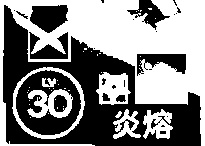
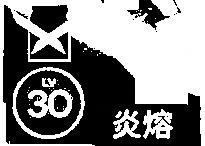
update match & template image

Changed region(s): [[0.4683, 0.3562, 0.9073, 0.7397], [0.9073, 0.6301, 0.9659, 0.6575]]

diff --git a/main.py b/main.py
@@ -67,46 +67,44 @@ def get_image_classification():
     resize = matcher.maintain_aspect_ratio_resize(default,
                                                   height=int(DEFAULT_IMAGE_HEIGHT / float(marker_ratio)))
 
-    # 修改部分：把图像二值化，让干员方框下部的黑色部分更明显，方便匹配
+    # image binary for box detection
     black_img = resize.copy()
-    THRES = 60  # 这个阈值可以调整，目前所有像素值[60,60,60]以下的像素映射为黑色，否则为白色
+    black_img_h, black_img_w = black_img.shape[:2]
+    mask = np.zeros((black_img_h + 2, black_img_w + 2), dtype=np.uint8)
+    for p in [(black_img_w - 1, 0), (black_img_w - 1, black_img_h - 1)]:
+        cv2.floodFill(black_img, mask, p, [255, 255, 255])
+    THRES = 60
     black_img[black_img <= THRES] = 0
     black_img[black_img > THRES] = 255
     black_img = cv2.cvtColor(black_img, cv2.COLOR_BGR2GRAY)
     black_img[black_img != 0] = 255
-    black_img_h, black_img_w = black_img.shape[:2]
-    mask = np.zeros((black_img_h + 2, black_img_w + 2), dtype=np.uint8)
-    for p in [(black_img_w - 1, 0), (black_img_w - 1, black_img_h - 1)]:  # 一些视频有上下边框，把它们去除
-        cv2.floodFill(black_img, mask, p, [255, 255, 255])
-    cv2.imwrite("images/black.jpg", black_img)
+    cv2.imwrite("debug/black.jpg", black_img)
 
     hits = matcher.match_template(black_img)
     # draw box for each img
-    overlay = drawBoxesOnRGB(resize, hits, showLabel=True)
-    cv2.imwrite('images/box.jpg', overlay)
+    # overlay = drawBoxesOnRGB(resize, hits, showLabel=True)
+    # cv2.imwrite('images/box.jpg', overlay)
     names = []
     for key, value in hits['BBox'].iteritems():
-        x, y, w, h = value[0], value[1] - 264, value[2], value[3] + 264  # 264 是一个要算的数，用于把方框拉倒指定长度
+        x, y, w, h = value[0], value[1] - 264, value[2], value[3] + 264
         crop = resize[y:y + h, x:x + w]
         if len(crop) == 0: continue
         crop_resize = matcher.maintain_aspect_ratio_resize(crop,
                                              height=410)
         final_test = crop_resize[5:5 + 265, 5:5 + 190]
+        cv2.imwrite("./debug/%s.jpg" % key, final_test) # if recognition is wrong, add sample to "template/"
+
         # download image for test purpose
-        cv2.imwrite('test/' + str(key) + '.jpg', final_test)
+        # cv2.imwrite('test/' + str(key) + '.jpg', final_test)
 
         matched = matcher.match_hash(final_test, client.db, store)
         if len(matched) != 0:
-            if '-v2' in matched[0]:
-                names.append(matched[0].replace('-v2', ''))
-            elif '-v3' in matched[0]:
-                names.append(matched[0].replace('-v3', ''))
-            elif '-v4' in matched[0]:
-                names.append(matched[0].replace('-v4', ''))
-            elif '-v5' in matched[0]:
-                names.append(matched[0].replace('-v5', ''))
+            if matched[0] == '00': continue
+            if '-v' in matched[0]:
+                p = matched[0].find('-v')
+                id = matched[0][:p]
             else:
-                names.append(matched[0])
+                id = matched[0]
         # print("Keys {} with minimum values are : {}".format(key, str(matched)))
     names = list(dict.fromkeys(names))
     response_pickled = jsonpickle.encode({'names': names})

diff --git a/modules/match.py b/modules/match.py
@@ -9,8 +9,8 @@ from MTM import matchTemplates
 
 # constant
 TEMPLATE_IMG = './images/marker.jpg'
-TEMPLATE_IMG_1 = './images/t1.jpg'
-
+TEMPLATE_IMG_1 = './images/t'
+TEMPLATE_N = 3
 
 class Match:
     def __init__(self):
@@ -83,9 +83,11 @@ class Match:
            *   $names pd series with key, bbox
            """
     def match_template(self, resize):
-        t1 = cv2.imread(TEMPLATE_IMG_1, cv2.IMREAD_UNCHANGED)
-        list_template = [('t1', t1)]
-        hits = matchTemplates(list_template, resize, score_threshold=0.3, method=cv2.TM_CCOEFF_NORMED, maxOverlap=0.2)
+        t = []
+        for i in range(TEMPLATE_N):
+            t.append(cv2.imread(TEMPLATE_IMG_1+str(i+1)+'.jpg', cv2.IMREAD_UNCHANGED))
+        list_template = [('t%s'%i, t[i]) for i in range(TEMPLATE_N)]
+        hits = matchTemplates(list_template, resize, score_threshold=0.3, method=cv2.TM_CCOEFF_NORMED, maxOverlap=0.1)
         return hits
 
     """
